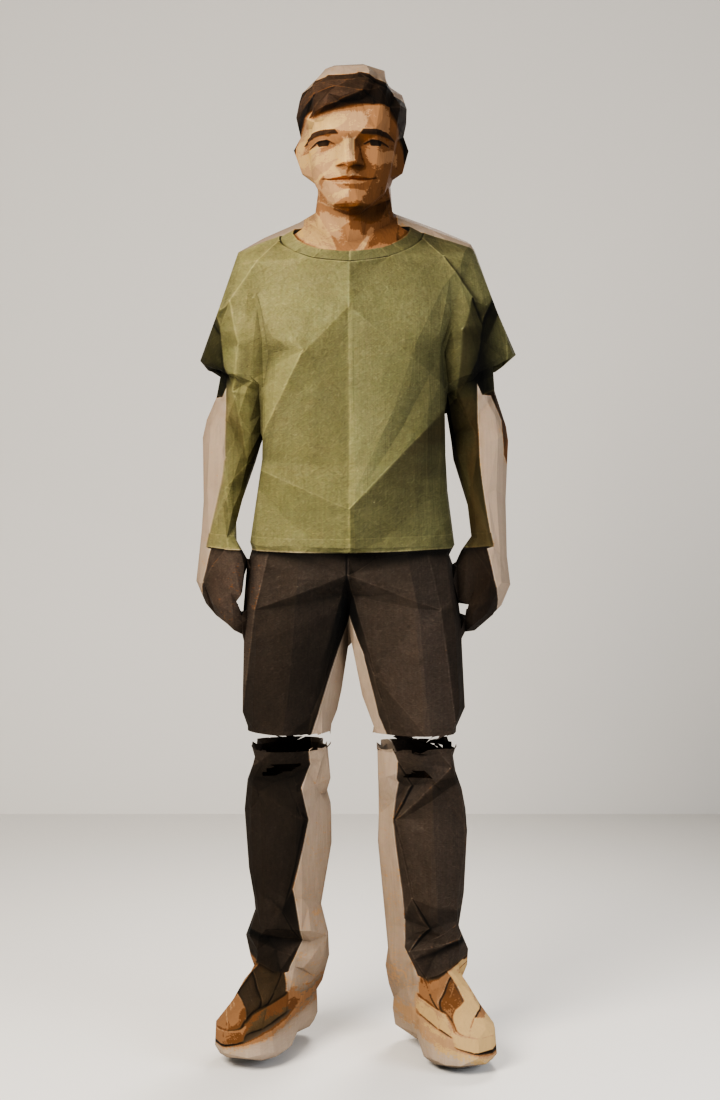
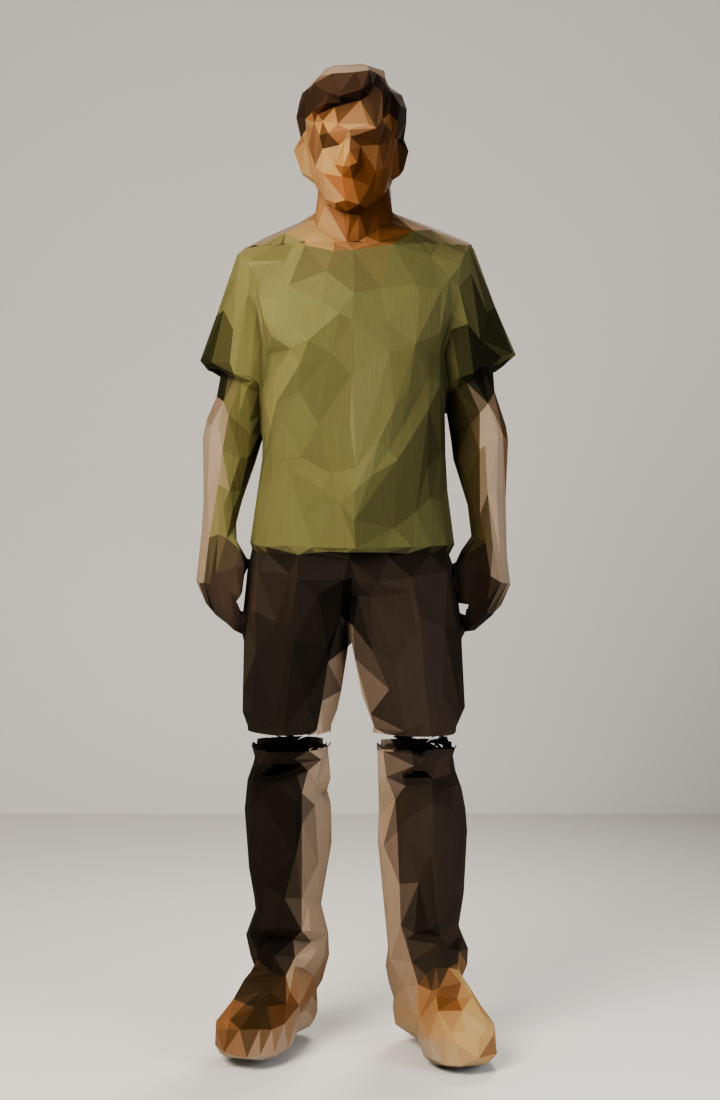
papercraft-cast: per-facet flat color bake (reference-grade paper pieces)
- bake each decimated face's area-sampled concept texels into a
  'paperCol' corner color attribute (linearized) -> every facet renders
  one uniform tone, matching the folded-paper-piece construction of the
  reference plates; removes all baked painterly gradients
- head faces separated into their own object and decimated harder
  (0.04 vs body 0.03) -> big planar face/brow/cheek facets
- exposure -0.45, kraft multiply 0.45, saturation 1.28 for flat colors

Changed region(s): [[0.275, 0.0618, 0.7028, 0.5564], [0.3056, 0.5564, 0.7028, 0.9891]]

diff --git a/engine_sources/papercraft-cast/scripts/render_gen_fullbody.py b/engine_sources/papercraft-cast/scripts/render_gen_fullbody.py
@@ -34,6 +34,7 @@ img_nrm = bpy.data.images.load(KRAFT + "Paper001_1K-JPG_NormalGL.jpg")
 img_nrm.colorspace_settings.name = 'Non-Color'
 img_con = bpy.data.images.load(CONCEPT)
 
+BAKED = False
 def paperize(mat):
     if not mat or not mat.use_nodes: return
     nt = mat.node_tree
@@ -44,6 +45,7 @@ def paperize(mat):
         bsdf.inputs['Specular IOR Level'].default_value = 0.15
     tc = nt.nodes.new('ShaderNodeTexCoord')
     ptex = nt.nodes.new('ShaderNodeTexImage'); ptex.image = img_con
+    cav = nt.nodes.new('ShaderNodeVertexColor'); cav.layer_name = "paperCol"
     uvn = nt.nodes.new('ShaderNodeUVMap'); uvn.uv_map = "projUV"
     if UBOX:
         um = nt.nodes.new('ShaderNodeMapping')
@@ -60,21 +62,24 @@ def paperize(mat):
     nt.links.new(mp.outputs['Vector'], ktex.inputs['Vector'])
     # contrast S-curve + saturation on the projected concept (kills baked softness)
     hs = nt.nodes.new('ShaderNodeHueSaturation')
-    hs.inputs['Saturation'].default_value = 1.14
-    hs.inputs['Value'].default_value = 1.02
-    nt.links.new(ptex.outputs['Color'], hs.inputs['Color'])
+    hs.inputs['Saturation'].default_value = 1.28
+    hs.inputs['Value'].default_value = 1.05
+    if BAKED:
+        nt.links.new(cav.outputs['Color'], hs.inputs['Color'])
+    else:
+        nt.links.new(ptex.outputs['Color'], hs.inputs['Color'])
     scurve = nt.nodes.new('ShaderNodeRGBCurve')
     cc = scurve.mapping.curves[3]
     cc.points.new(0.28, 0.18); cc.points.new(0.72, 0.82)
     scurve.mapping.update()
     nt.links.new(hs.outputs['Color'], scurve.inputs['Color'])
-    m1 = nt.nodes.new('ShaderNodeMixRGB'); m1.blend_type='MULTIPLY'; m1.inputs[0].default_value=0.7
+    m1 = nt.nodes.new('ShaderNodeMixRGB'); m1.blend_type='MULTIPLY'; m1.inputs[0].default_value=0.45
     nt.links.new(scurve.outputs['Color'], m1.inputs[1])
     nt.links.new(ktex.outputs['Color'], m1.inputs[2])
     geo = nt.nodes.new('ShaderNodeNewGeometry')
     ramp = nt.nodes.new('ShaderNodeValToRGB')
-    ramp.color_ramp.elements[0].color = (0.38,0.34,0.30,1); ramp.color_ramp.elements[0].position = 0.0
-    ramp.color_ramp.elements[1].color = (1,1,1,1);          ramp.color_ramp.elements[1].position = 0.45
+    ramp.color_ramp.elements[0].color = (0.40,0.36,0.31,1); ramp.color_ramp.elements[0].position = 0.0
+    ramp.color_ramp.elements[1].color = (1,1,1,1);          ramp.color_ramp.elements[1].position = 0.35
     m2 = nt.nodes.new('ShaderNodeMixRGB'); m2.blend_type='MULTIPLY'; m2.inputs[0].default_value=1.0
     nt.links.new(m1.outputs['Color'], m2.inputs[1])
     nt.links.new(geo.outputs['Pointiness'], ramp.inputs['Fac'])
@@ -121,15 +126,34 @@ for ob in meshes:
     for f in kill: bm.faces.remove(f)
     bm.to_mesh(ob.data); bm.free()
     print("stripped", len(kill), "slab faces")
+# separate head faces (world z > 1.44) into their own objects
+new_objs = []
+for ob in list(meshes):
+    bm3 = bmesh.new(); bm3.from_mesh(ob.data)
+    for f in bm3.faces:
+        f.select = (ob.matrix_world @ f.calc_center_median()).z > 1.44
+    bm3.to_mesh(ob.data); bm3.free()
+    bpy.context.view_layer.objects.active = ob; ob.select_set(True)
+    bpy.ops.object.mode_set(mode='EDIT')
+    bpy.ops.mesh.select_mode(type='FACE')
+    bpy.ops.mesh.separate(type='SELECTED')
+    bpy.ops.object.mode_set(mode='OBJECT')
+    ob.select_set(False)
+new_objs = [o for o in bpy.context.scene.objects
+            if o.type == 'MESH' and o not in meshes]
+meshes += new_objs
+for ob in new_objs:
+    for p in ob.data.polygons: p.use_smooth = False
+
 for ob in meshes:
-    dec = ob.modifiers.new("facet", 'DECIMATE'); dec.decimate_type='COLLAPSE'; dec.ratio = DEC
+    is_head = ob in new_objs
+    dec = ob.modifiers.new("facet", 'DECIMATE'); dec.decimate_type='COLLAPSE'
+    dec.ratio = 0.04 if is_head else DEC
     uvp = ob.modifiers.new("proj", 'UV_PROJECT')
     if not ob.data.materials:
         m = bpy.data.materials.new("paper"); m.use_nodes=True
         ob.data.materials.append(m)
-    for m in ob.data.materials: paperize(m)
 
-bpy.context.view_layer.update()
 bvs = []
 dg = bpy.context.evaluated_depsgraph_get()
 for ob in meshes:
@@ -139,6 +163,80 @@ hi = Vector((max(v.x for v in bvs), max(v.y for v in bvs), max(v.z for v in bvs)
 cx, cy = (lo.x+hi.x)/2, (lo.y+hi.y)/2
 top, bot = hi.z, lo.z
 mid = (top+bot)/2
+
+# square-ish ortho projector covering figure from front
+bpy.ops.object.camera_add()
+projcam = bpy.context.object
+projcam.data.type = 'ORTHO'
+projcam.data.ortho_scale = (hi.z-lo.z) * 1.02
+projcam.location = (cx, lo.y - 3.0, mid)
+projcam.rotation_euler = (Vector((cx,cy,mid)) - projcam.location).to_track_quat('-Z','Y').to_euler()
+for ob in meshes:
+    if not ob.data.uv_layers:
+        ob.data.uv_layers.new(name="projUV")
+    uvp = ob.modifiers.get("proj")
+    uvp.uv_layer = "projUV"
+    uvp.projector_count = 1
+    uvp.projectors[0].object = projcam
+    uvp.aspect_x = (hi.z-lo.z)/(hi.x-lo.x)
+    uvp.aspect_y = 1.0
+bpy.context.view_layer.update()
+
+# apply facet + projection so we can bake flat per-face colors
+for ob in meshes:
+    bpy.context.view_layer.objects.active = ob
+    ob.select_set(True)
+    for mn in ("facet", "proj"):
+        if ob.modifiers.get(mn):
+            bpy.ops.object.modifier_apply(modifier=mn)
+    ob.select_set(False)
+bpy.context.view_layer.update()
+
+# bake per-face flat colors: face-center UV -> concept texel -> corner color attr
+img = img_con
+W, H = img.size
+px = list(img.pixels)
+def texel(u, v):
+    x = min(max(int(u * W), 0), W-1); y = min(max(int(v * H), 0), H-1)
+    i = (y * W + x) * 4
+    return px[i], px[i+1], px[i+2], 1.0
+for ob in meshes:
+    uv = ob.data.uv_layers.get("projUV")
+    if uv is None: continue
+    bm = bmesh.new(); bm.from_mesh(ob.data)
+    uvl = bm.loops.layers.uv["projUV"]
+    cols = {}
+    for f in bm.faces:
+        us = [l[uvl].uv for l in f.loops]
+        n = len(us)
+        cu = sum(u.x for u in us)/n; cv = sum(u.y for u in us)/n
+        # area sample: centroid + each loop uv + edge midpoints
+        acc = [0.0,0.0,0.0]
+        cnt = 0
+        pts = [(cu,cv)] + [(u.x,u.y) for u in us]
+        for i in range(n):
+            a,b = us[i], us[(i+1)%n]
+            pts.append(((a.x+b.x)/2,(a.y+b.y)/2))
+            pts.append(((a.x+cu)/2,(a.y+cv)/2))
+        for (su,sv) in pts:
+            t = texel(su,sv)
+            acc[0]+=t[0]; acc[1]+=t[1]; acc[2]+=t[2]; cnt+=1
+        # attr values are read raw as linear in the shader
+        cols[f.index] = ((acc[0]/cnt)**2.2, (acc[1]/cnt)**2.2,
+                         (acc[2]/cnt)**2.2, 1.0)
+    bm.to_mesh(ob.data); bm.free()
+    ca = ob.data.color_attributes.new(name="paperCol", type='BYTE_COLOR',
+                                      domain='CORNER')
+    for p in ob.data.polygons:
+        c = cols[p.index]
+        for li in p.loop_indices:
+            ca.data[li].color = c
+    print("baked", len(cols), "face colors for", ob.name)
+
+BAKED = True
+for ob in meshes:
+    for m in ob.data.materials: paperize(m)
+
 
 def plane(name, loc, size, rot=(0,0,0)):
     bpy.ops.mesh.primitive_plane_add(size=size, location=loc, rotation=rot)
@@ -171,23 +269,6 @@ bpy.context.scene.world = bpy.data.worlds.new("w"); bpy.context.scene.world.use_
 bgn = bpy.context.scene.world.node_tree.nodes['Background']
 bgn.inputs[0].default_value = (0.90,0.89,0.86,1); bgn.inputs[1].default_value = 0.3
 
-# square-ish ortho projector covering figure from front
-bpy.ops.object.camera_add()
-projcam = bpy.context.object
-projcam.data.type = 'ORTHO'
-projcam.data.ortho_scale = (hi.z-lo.z) * 1.02
-projcam.location = (cx, lo.y - 3.0, mid)
-projcam.rotation_euler = (Vector((cx,cy,mid)) - projcam.location).to_track_quat('-Z','Y').to_euler()
-for ob in meshes:
-    if not ob.data.uv_layers:
-        ob.data.uv_layers.new(name="projUV")
-    uvp = ob.modifiers.get("proj")
-    uvp.uv_layer = "projUV"
-    uvp.projector_count = 1
-    uvp.projectors[0].object = projcam
-    uvp.aspect_x = (hi.z-lo.z)/(hi.x-lo.x)
-    uvp.aspect_y = 1.0
-
 bpy.ops.object.camera_add()
 cam = bpy.context.object; cam.data.lens = 62
 target = Vector((cx, cy, mid+0.02))
@@ -199,6 +280,7 @@ sc = bpy.context.scene
 sc.render.engine = 'CYCLES'; sc.cycles.samples=96; sc.cycles.use_denoising=True; sc.cycles.max_bounces=4
 sc.render.resolution_x=720; sc.render.resolution_y=1100
 sc.view_settings.look = 'AgX - Medium High Contrast'
+sc.view_settings.exposure = -0.45
 sc.render.filepath = OUT
 bpy.ops.render.render(write_still=True)
 print("WROTE", OUT)
